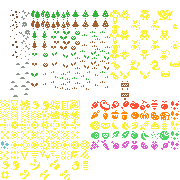
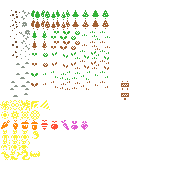
Rearrange the tiles
All the character, monster and item tiles are now right next to each
other in the tilemap. Any tiles not in use were removed.

diff --git a/src/engine.rs b/src/engine.rs
@@ -618,67 +618,46 @@ fn tilemap_coords_px_from_graphic(_tilesize: u32, graphic: Graphic) -> Option<(i
         Grass8 => Some((9, 7)),
         Grass9 => Some((10, 7)),
 
-        //Corpse => Some((2, 2)),
-        Corpse => Some((1, 16)),
+        Corpse => Some((3, 13)),
 
-        Anxiety => Some((7, 11)),
-        Hunger => Some((0, 10)),
+        Anxiety => Some((0, 10)),
+        Hunger => Some((1, 10)),
         Depression => Some((2, 10)),
-        //Shadows => Some((3, 10)),
-        //Shadows => Some((1, 16)),
-        Shadows => Some((7, 15)),
-        //Voices => Some((2, 15)),
-        Voices => Some((8, 15)),
+        Shadows => Some((3, 10)),
+        Voices => Some((4, 10)),
 
-        //Dose => Some((0, 14)),
-        //Dose => Some((0, 17)),
-        //Dose => Some((3, 12)),
-        Dose => Some((1, 14)),
-        //CardinalDose => Some((6, 12)),
-        CardinalDose => Some((4, 12)),
-        DiagonalDose => Some((3, 13)),
-        StrongDose => Some((8, 14)),
+        Dose => Some((0, 11)),
+        CardinalDose => Some((1, 11)),
+        DiagonalDose => Some((2, 11)),
+        StrongDose => Some((3, 11)),
 
-        //Food => Some((16, 11)),
-        FoodAcornWide => Some((11, 11)),
-        FoodAcornThin => Some((12, 11)),
-        FoodCarrotWide => Some((10, 11)),
-        FoodCarrotSideways => Some((9, 11)),
-        FoodCarrotThin => Some((10, 14)),
-        FoodTurnipSmallLeaves => Some((16, 10)),
-        FoodTurnipBigLeaves => Some((13, 14)),
-        FoodTurnipHeart => Some((15, 14)),
-        FoodStriped => Some((15, 10)),
-
-        //Player => Some((11, 4)),
+        FoodAcornWide => Some((2, 12)),
+        FoodAcornThin => Some((3, 12)),
+        FoodCarrotWide => Some((1, 12)),
+        FoodCarrotSideways => Some((0, 12)),
+        FoodCarrotThin => Some((6, 12)),
+        FoodTurnipSmallLeaves => Some((5, 12)),
+        FoodTurnipBigLeaves => Some((7, 12)),
+        FoodTurnipHeart => Some((8, 12)),
+        FoodStriped => Some((4, 12)),
 
         // PCs
-        CharacterTrousers => Some((11, 2)),
-        CharacterSkirt => Some((11, 4)),
+        CharacterTrousers => Some((0, 13)),
+        CharacterSkirt => Some((1, 13)),
 
-        CharacterBelly => Some((15, 4)),
+        // NPC
+        CharacterBelly => Some((2, 13)),
 
         // Tribal NPC set
-        CharacterTribalStaffTrousers => Some((13, 2)),
-        CharacterTribalStaffBelly => Some((13, 4)),
-        CharacterTribalMoon => Some((16, 5)),
-
-        // Sparse NPC set
-        CharacterSparseWideArmsWaist => Some((12, 1)),
-        CharacterSparseWideSkirt => Some((12, 3)),
-        CharacterSparseArmsStraight => Some((11, 3)),
-
-        // Full NPC set
-        CharacterFullHandsWaist => Some((14, 1)),
-        CharacterFullHandsStaight => Some((14, 3)),
-        CharacterFullSuit => Some((11, 5)),
+        CharacterTribalStaffTrousers => Some((0, 14)),
+        CharacterTribalStaffBelly => Some((1, 14)),
+        CharacterTribalMoon => Some((2, 14)),
 
         // Animal Set
-        Bird1 => Some((11, 6)),
-        Bird2 => Some((11, 7)),
-        Fox => Some((13, 6)),
-        Snake => Some((15, 6)),
-        Bat => Some((17, 6)),
+        Bird1 => Some((0, 15)),
+        Fox => Some((1, 15)),
+        Snake => Some((2, 15)),
+        Bat => Some((3, 15)),
 
         Signpost => Some((12, 8)),
     };

diff --git a/src/graphic.rs b/src/graphic.rs
@@ -62,21 +62,8 @@ pub enum Graphic {
     CharacterTribalStaffBelly,
     CharacterTribalMoon,
 
-    // Sparse NPC set
-    // NOTE: not currently used
-    CharacterSparseWideArmsWaist,
-    CharacterSparseWideSkirt,
-    CharacterSparseArmsStraight,
-
-    // Full NPC set
-    // NOTE: not currently used
-    CharacterFullHandsWaist,
-    CharacterFullHandsStaight,
-    CharacterFullSuit,
-
     // Animal Set
     Bird1,
-    Bird2,
     Fox,
     Snake,
     Bat,
@@ -170,19 +157,8 @@ impl Into<char> for Graphic {
             CharacterTribalStaffBelly => '@',
             CharacterTribalMoon => '@',
 
-            // Sparse NPC set
-            CharacterSparseWideArmsWaist => '@',
-            CharacterSparseWideSkirt => '@',
-            CharacterSparseArmsStraight => '@',
-
-            // Full NPC set
-            CharacterFullHandsWaist => '@',
-            CharacterFullHandsStaight => '@',
-            CharacterFullSuit => '@',
-
             // Animal Set
             Bird1 => '@',
-            Bird2 => '@',
             Fox => '@',
             Snake => '@',
             Bat => '@',
